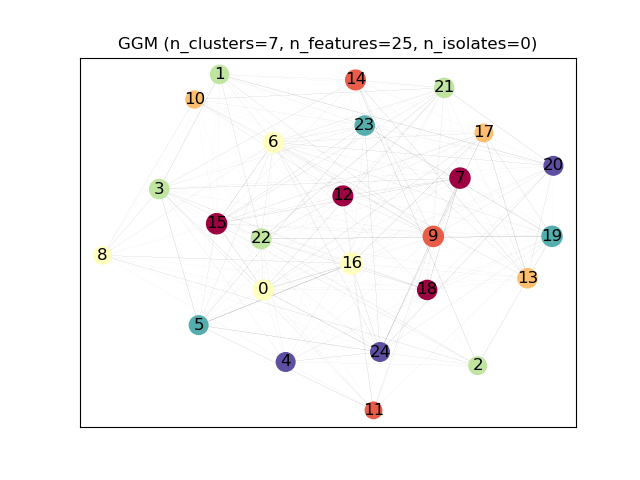
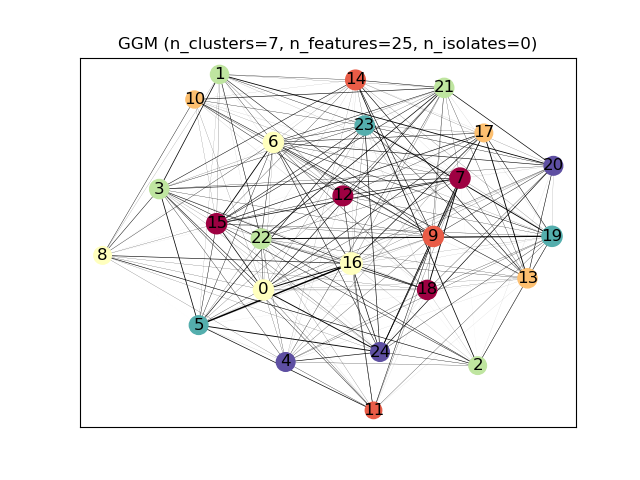
update visualization.py

Changed region(s): [[0.1562, 0.1562, 0.875, 0.8438]]

diff --git a/kenchi/visualization.py b/kenchi/visualization.py
@@ -15,8 +15,8 @@ __all__ = [
 
 
 def plot_anomaly_score(
-    anomaly_score, ax=None, bins='fd', figsize=None,
-    filepath=None, grid=True, hist=True, threshold=None,
+    anomaly_score, ax=None, bins='auto', figsize=None,
+    filename=None, grid=True, hist=True, threshold=None,
     title=None, xlabel='Samples', xlim=None, ylabel='Anomaly score',
     ylim=None, **kwargs
 ):
@@ -30,13 +30,13 @@ def plot_anomaly_score(
     ax : matplotlib Axes, default None
         Target axes instance.
 
-    bins : int, str or array-like, default 'fd'
+    bins : int, str or array-like, default 'auto'
         Number of hist bins.
 
     figsize : tuple, default None
         Tuple denoting figure size of the plot.
 
-    filepath : str, default None
+    filename : str, default None
         If provided, save the current figure.
 
     grid : bool, default True
@@ -122,15 +122,15 @@ def plot_anomaly_score(
             anomaly_score, bins=bins, density=True, orientation='horizontal'
         )
 
-    if filepath is not None:
-        ax.figure.savefig(filepath)
+    if filename is not None:
+        ax.figure.savefig(filename)
 
     return ax
 
 
 def plot_roc_curve(
     y_true, y_score, ax=None, figsize=None,
-    filepath=None, grid=True, label=None, title=None,
+    filename=None, grid=True, label=None, title=None,
     xlabel='FPR', ylabel='TPR', **kwargs
 ):
     """Plot the Receiver Operating Characteristic (ROC) curve.
@@ -149,7 +149,7 @@ def plot_roc_curve(
     figsize : tuple, default None
         Tuple denoting figure size of the plot.
 
-    filepath : str, default None
+    filename : str, default None
         If provided, save the current figure.
 
     grid : bool, default True
@@ -206,14 +206,14 @@ def plot_roc_curve(
     ax.plot(fpr, tpr, label=label, **kwargs)
     ax.legend(loc='lower right')
 
-    if filepath is not None:
-        ax.figure.savefig(filepath)
+    if filename is not None:
+        ax.figure.savefig(filename)
 
     return ax
 
 
 def plot_graphical_model(
-    graphical_model, ax=None, figsize=None, filepath=None,
+    graphical_model, ax=None, figsize=None, filename=None,
     pos=None, random_state=None, title='GGM', **kwargs
 ):
     """Plot the Gaussian Graphical Model (GGM).
@@ -229,7 +229,7 @@ def plot_graphical_model(
     figsize : tuple, default None
         Tuple denoting figure size of the plot.
 
-    filepath : str, default None
+    filename : str, default None
         If provided, save the current figure.
 
     pos : dict, default None
@@ -277,7 +277,7 @@ def plot_graphical_model(
         10. * (d + 1.) for _, d in graphical_model.degree
     ])
     kwargs['width']     = np.abs([
-        w for _, _, w in graphical_model.edges(data='weight')
+        10. * w for _, _, w in graphical_model.edges(data='weight')
     ])
 
     # Draw the Gaussian grapchical model
@@ -287,15 +287,15 @@ def plot_graphical_model(
     ax.xaxis.set_tick_params(labelbottom=False, bottom=False)
     ax.yaxis.set_tick_params(labelleft=False, left=False)
 
-    if filepath is not None:
-        ax.figure.savefig(filepath)
+    if filename is not None:
+        ax.figure.savefig(filename)
 
     return ax
 
 
 def plot_partial_corrcoef(
     partial_corrcoef, ax=None, cbar=True, figsize=None,
-    filepath=None, linewidth=0.1, title='Partial correlation', **kwargs
+    filename=None, linewidth=0.1, title='Partial correlation', **kwargs
 ):
     """Plot the partial correlation coefficient matrix.
 
@@ -313,7 +313,7 @@ def plot_partial_corrcoef(
     figsize : tuple, default None
         Tuple denoting figure size of the plot.
 
-    filepath : str, default None
+    filename : str, default None
         If provided, save the current figure.
 
     linewidth : float, default 0.1
@@ -373,7 +373,7 @@ def plot_partial_corrcoef(
 
         ax.figure.colorbar(mesh, cax=cax)
 
-    if filepath is not None:
-        ax.figure.savefig(filepath)
+    if filename is not None:
+        ax.figure.savefig(filename)
 
     return ax

diff --git a/kenchi/pipeline.py b/kenchi/pipeline.py
@@ -123,13 +123,13 @@ class Pipeline(SKLearnPipeline):
         ax : matplotlib Axes, default None
             Target axes instance.
 
-        bins : int, str or array-like, default 'fd'
+        bins : int, str or array-like, default 'auto'
             Number of hist bins.
 
         figsize : tuple, default None
             Tuple denoting figure size of the plot.
 
-        filepath : str, default None
+        filename : str, default None
             If provided, save the current figure.
 
         grid : boolean, default True
@@ -186,7 +186,7 @@ class Pipeline(SKLearnPipeline):
         figsize: tuple, default None
             Tuple denoting figure size of the plot.
 
-        filepath : str, default None
+        filename : str, default None
             If provided, save the current figure.
 
         grid : boolean, default True
@@ -230,7 +230,7 @@ class Pipeline(SKLearnPipeline):
         figsize : tuple, default None
             Tuple denoting figure size of the plot.
 
-        filepath : str, default None
+        filename : str, default None
             If provided, save the current figure.
 
         pos : dict, default None
@@ -269,7 +269,7 @@ class Pipeline(SKLearnPipeline):
         figsize : tuple, default None
             Tuple denoting figure size of the plot.
 
-        filepath : str, default None
+        filename : str, default None
             If provided, save the current figure.
 
         linewidth : float, default 0.1

diff --git a/kenchi/base.py b/kenchi/base.py
@@ -133,13 +133,13 @@ class BaseDetector(BaseEstimator, ABC):
         ax : matplotlib Axes, default None
             Target axes instance.
 
-        bins : int, str or array-like, default 'fd'
+        bins : int, str or array-like, default 'auto'
             Number of hist bins.
 
         figsize : tuple, default None
             Tuple denoting figure size of the plot.
 
-        filepath : str, default None
+        filename : str, default None
             If provided, save the current figure.
 
         grid : boolean, default True
@@ -193,7 +193,7 @@ class BaseDetector(BaseEstimator, ABC):
         figsize: tuple, default None
             Tuple denoting figure size of the plot.
 
-        filepath : str, default None
+        filename : str, default None
             If provided, save the current figure.
 
         grid : boolean, default True

diff --git a/kenchi/outlier_detection/statistical.py b/kenchi/outlier_detection/statistical.py
@@ -571,7 +571,7 @@ class SparseStructureLearning(BaseDetector):
         figsize : tuple, default None
             Tuple denoting figure size of the plot.
 
-        filepath : str, default None
+        filename : str, default None
             If provided, save the current figure.
 
         pos : dict, default None
@@ -622,7 +622,7 @@ class SparseStructureLearning(BaseDetector):
         figsize : tuple, default None
             Tuple denoting figure size of the plot.
 
-        filepath : str, default None
+        filename : str, default None
             If provided, save the current figure.
 
         linewidth : float, default 0.1
